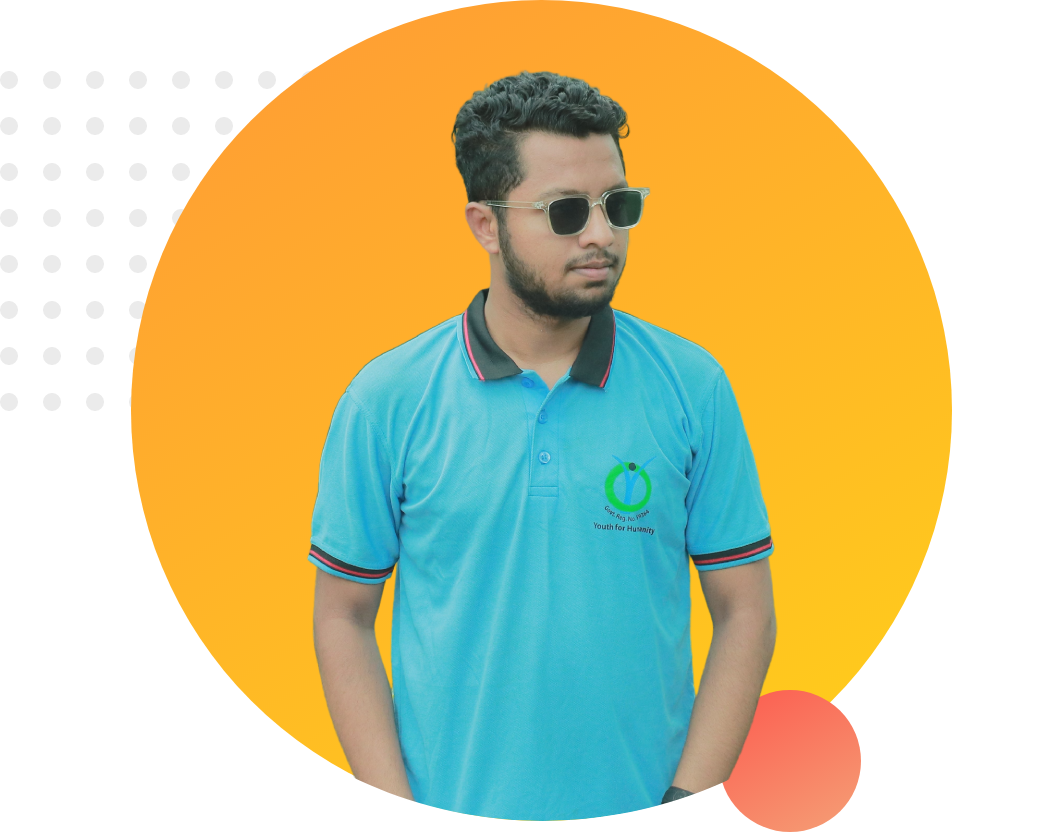
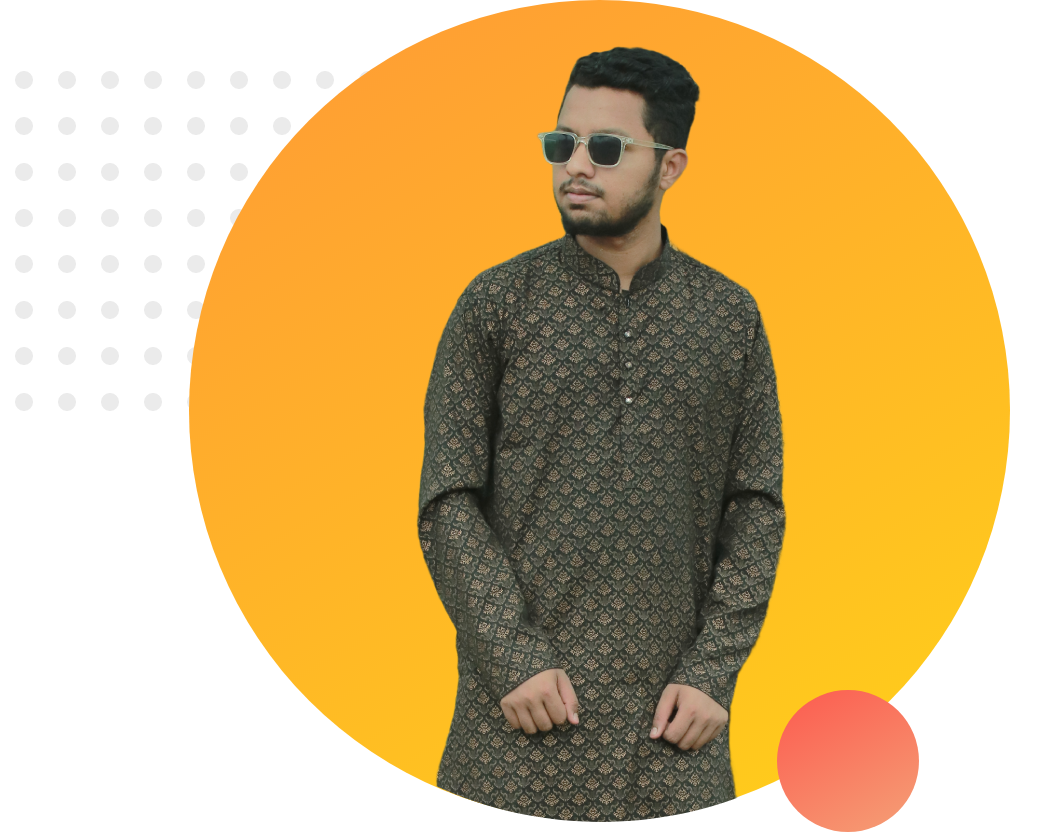
completed

diff --git a/index.html b/index.html
@@ -13,7 +13,7 @@
     <section class="top-section">
         <div class ="half-width">
             <h1>Welcome To</h1>
-            <h1><span id="name-highlight">Siaum  Ahmed </span>Website</h1>
+            <h1><span class="orange-highlight">Siaum  Ahmed </span>Website</h1>
             <h3>World-class professional web development</h3>
             <div class="top-section-paragraph">
                 <p>You might saw me jumping, climbing buildings, and stopping trains. But nobody pays me a dime for that work. That's why I am learning and mastering web development. I will not stop until I become the Web Development Hero.</p>
@@ -27,6 +27,39 @@
             </div>
         </div>
     </section>
+    <section class="top2-section">
+        <div class ="half-width">
+            <div id="top2-section-img" class="img-area">
+                <img src="images/profile3.png">
+            </div>
+
+        </div>
+        <div class ="half-width">
+            <h1>Dream Big</h1>
+            <h3>Become a web developer</h3>
+            <div id="top2-section-para" class="top-section-paragraph">
+                <p>I already learned the basic HTML and CSS. I can build any simple website. I can even teach my grandma how to make simple website. My goal is to build 3 websites and learn advanced topics.</p>
+                <button><a target="_blank" href="https://www.facebook.com/siaumahmed22">Download resume</a></button>
+            </div>
+     
+        </div>
+    </section>
+    <section class="experience-area">
+        <h2 class="experience-txt">Experiences</h2>
+        <div class="half-width single-experience" id="full-stack">
+            <h2>Full Stack Web Developer</h2>
+            <h3 class="orange-highlight">2021 - Present | Pro level Web Developer</h3>
+            <p>I am the master of HTML, CSS and Javascript. I know everything needed to make a website function, efficient. I didn't stop with the web. I went beyond with most popular Javascript framework called Vue JS. I even know the deployment, server and security. I will give you 100% web solution.</p>
+        </div>
+        <div class="half-width single-experience" id="baby">
+            <h2>Baby Web Developer</h2>
+            <h3 class="orange-highlight">2020-2021 | Programming Hero Learner</h3>
+            <p>They didn't offer me a job. But I made myself as a remove web developer. I made their website and showed it to them. They liked it. And uploaded the content. It was fun working at Programming Hero.</p>
+        </div>
+    </section>
+    <footer>
+        <p>© Siaum Ahmed 2022, all rights reserved .</p>
+    </footer>
 
 
     

diff --git a/style.css b/style.css
@@ -5,15 +5,14 @@ body{
 h1{
     font-size: 50px;
 }
-#name-highlight {
+.orange-highlight {
     color: #ff930c;
 }
 .half-width{
-    width:40%;
+    width: 40%;
     float: left;
     margin-left:5%;
     padding-left:2%;
-
 }
 .half-width img{
     width: 100%;
@@ -21,17 +20,19 @@ h1{
 .top-section{
     background-image: url("images/top-banner.png");
     background-repeat: no-repeat;
+    padding-bottom: 106px;
 }
 .top-section-paragraph {
     width: 455px;
     text-align: justify;
     font-size: 17px;
 }
-.top-section div h3 {
+.half-width h3 {
     width: 450px;
     font-size: 21px;
+    margin-top: 48px;
 }
-.top-section div button {
+.top-section-paragraph button {
     background-image: linear-gradient(45deg,lightSalmon,rgb(252, 93, 65));
     padding: 12px 22px;
     font-size: 16px;
@@ -45,19 +46,75 @@ h1{
     text-transform: uppercase;
     transition-duration: 0.5s !important;
 }
-.top-section div button a {
+.top-section-paragraph button a {
     text-decoration: none;
     color: white;
 }
-.top-section div button:hover {
+.top-section-paragraph button:hover {
     background: #221f1f;
     cursor: pointer;
 }
 .img-area {
-    margin-top: 21px;
-    width: 94%;
-    margin-left: 50px;
+    margin-top: 29px;
+    width: 95%;
+}
+#top2-section-img{
+    width: 85%;
 }
 section{
     height: 500px;
+}
+.top2-section{
+    background-image: url("images/dream-bg.png");
+    background-repeat: no-repeat;
+    background-position: right;
+    padding-bottom: 167px;
+}
+.experience-area h2 {
+    font-size: 25px;
+}
+.experience-area{
+    background-image: url("images/exp-bg.png");
+    background-repeat: no-repeat;
+    background-position: left;
+}
+.single-experience{
+    box-shadow: 10px 10px 40px gray;
+    border-radius: 5px;
+    height: 67%;
+    margin-top: 30px;
+    background-color: white;
+}
+#full-stack {
+    border-left: 7px solid;
+    border-image: linear-gradient(180deg,lightSalmon,tomato);
+    border-image-slice: 1;
+
+
+}
+#baby {
+    border-left: 7px solid;
+    border-image: linear-gradient(180deg,blue,cyan);
+    border-image-slice: 1;
+
+
+}
+.experience-txt{
+
+font-size: 40px !important;
+width: 165px;
+margin-left: 36px;
+}
+footer p{
+    text-align: center;
+    
+}
+p {
+    color: #666;
+    font-size: 18px;
+}
+.single-experience p {
+    width: 651px;
+    text-align: justify;
+    margin-top: -3px;
 }
